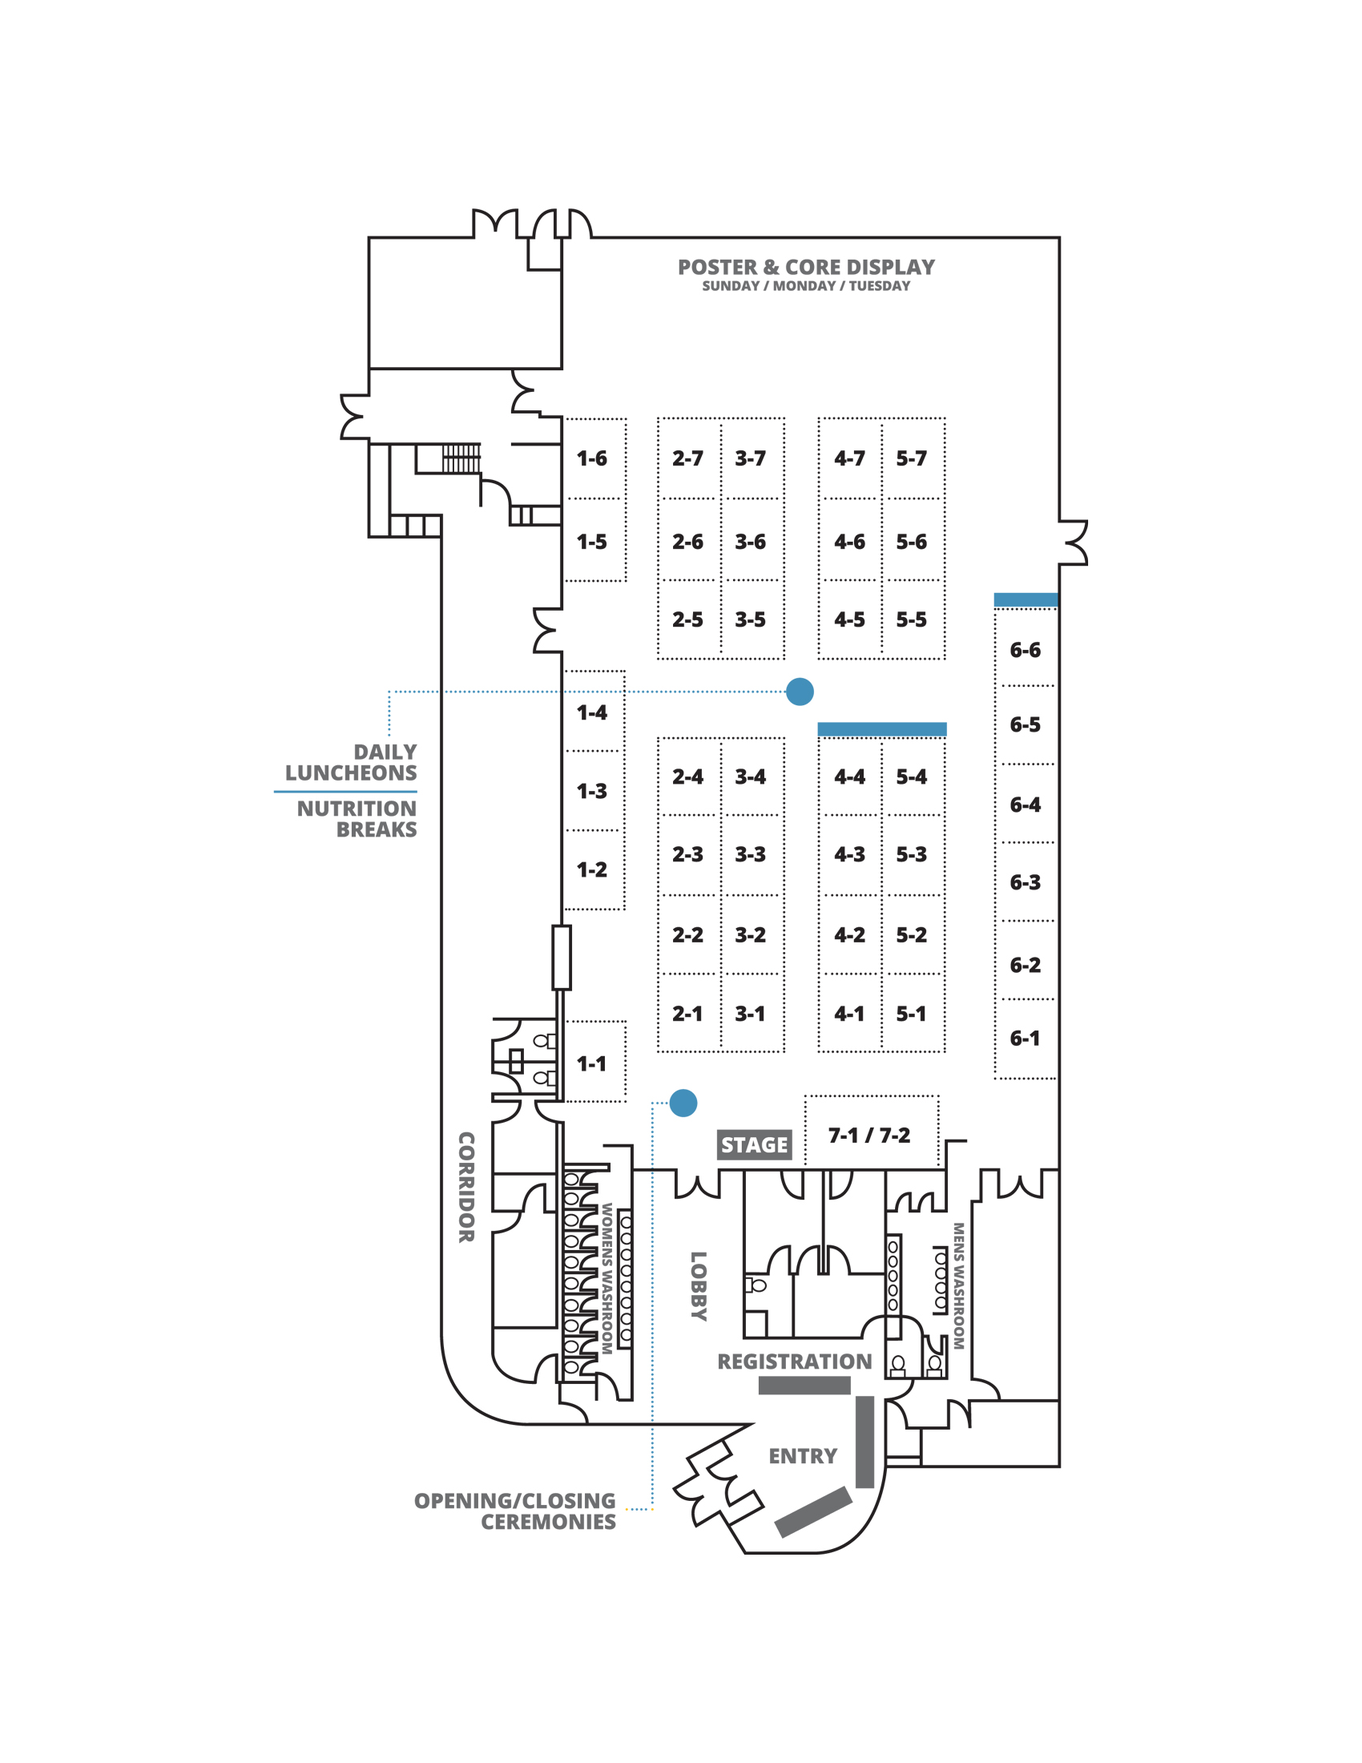
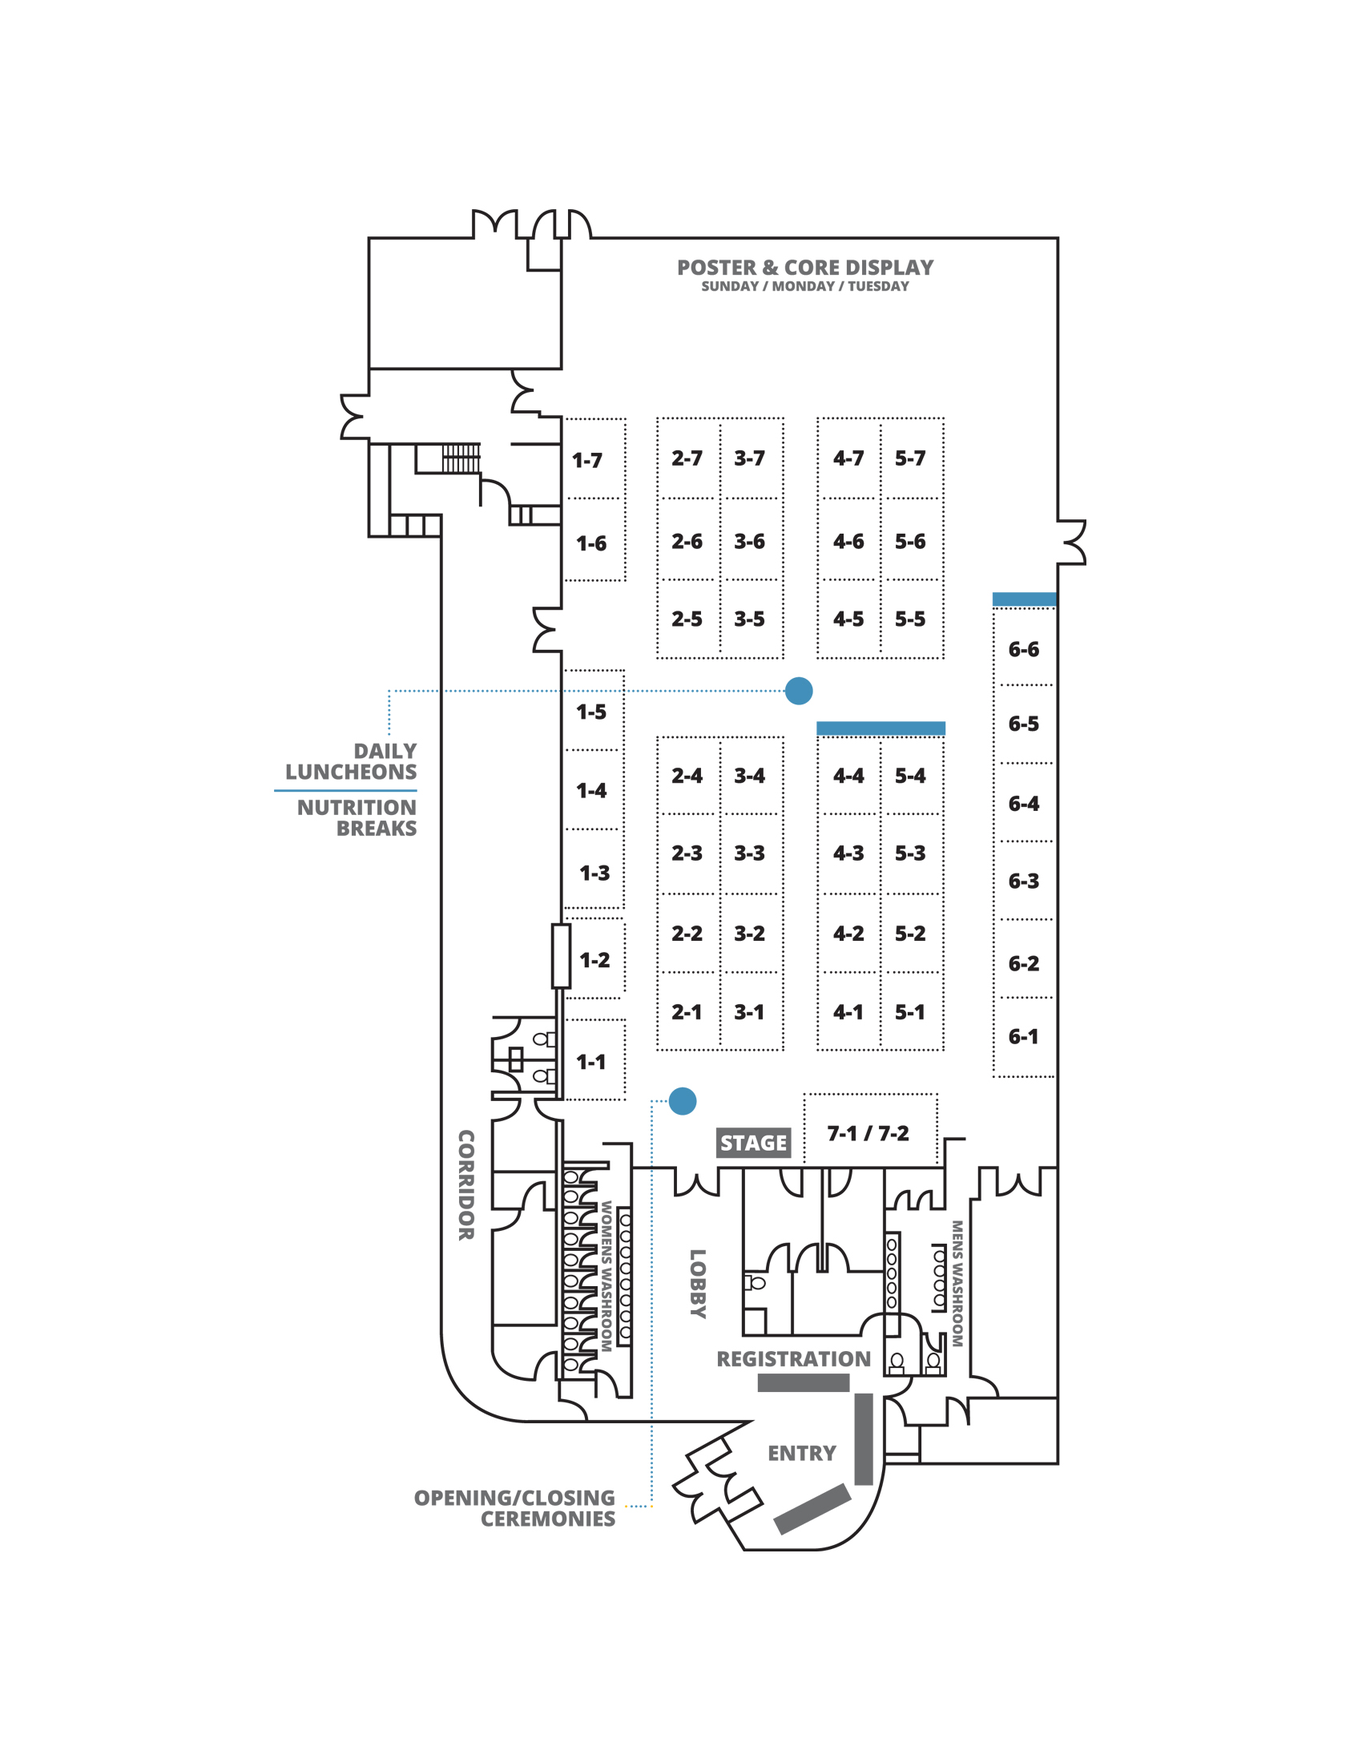
oct 9 2019

diff --git a/src/pages/list/list.ts b/src/pages/list/list.ts
@@ -22,48 +22,50 @@ export class ListPage {
   
   initializeItems() {
     this.items = [
-	[{"s": "Aurora Geosciences", "name": " Aurora Geosciences ", "booth": "1-1", "marker": [9.481572085088517, 7.987060546875001 ] }],
-	[{"s": "Alkan Air", "name": " Alkan Air ", "booth": "1-2", "marker": [12.071552663274506, 7.965087890625001 ] }],
-	[{"s": "Mercer Contracting","name": " Mercer Contracting ", "booth": "1-3", "marker": [12.95102921601837, 7.976074218750001 ] }],
-	[{"s": "Pelly Construction","name": " Pelly Construction ", "booth": "1-4", "marker": [13.78473654934022, 7.965087890625001 ] }],
-	[{"s": "Klondike Crane Inspections  Casino Mining Corp","name": "Klondike Crane Inspections", "booth": "1-5", "marker": [15.961329081596647, 7.976074218750001 ] }, {"name": " Casino Mining Corp", "booth": "1-5", "marker": [9, 5] }],
-	[{"s": "Imdex Limited","name": "Imdex Limited ", "booth": "1-6", "marker": [16.90968361555865, 7.954101562500001 ] }],
-	[{"s": "Selwyn Chihong Mining","name": "Selwyn Chihong Mining ", "booth": "2-1", "marker": [10.260870794748941, 9.107666015625002 ] }],
-	[{"s": "Air North","name": "Air North ", "booth": "2-2", "marker": [11.221510260010541, 9.107666015625002 ] }],
-	[{"s": "Uniglobe Challenger","name": " Uniglobe", "booth": "2-3", "marker": [12.243391505623274, 9.107666015625002 ] }, {"name": "Challenger", "booth": "2-3", "marker": [9, 5] }],
-	[{"s": "GOLDCORP","name": "GOLDCORP", "booth": "2-4", "marker": [13.15437605541853, 9.129638671875002 ] }],
-	[{"s": "Yukon Women in Mining WIM Nickle Creek Platinum","name": "Yukon Women in Mining", "booth": "2-5", "marker": [14.944784875088372, 9.074707031250002 ] }, {"name": "Nickle Creek Platinum", "booth": "2-5", "marker": [9, 5] }],
-	[{"s": "Great Slave Helicopters MIHR","name": "Great Slave Helicopters", "booth": "2-6", "marker": [15.940202412387029, 9.140625000000002 ] }, {"name": "MIHR", "booth": "2-6", "marker": [9, 5] }],
-	[{"s": "Icefield Tools KBL Environmental","name": "Icefield Tools", "booth": "2-7", "marker": [16.825574258731486, 9.096679687500002 ] }, {"name": "KBL Environmental", "booth": "2-7", "marker": [9, 5] }],
-	[{"s": "Bureau Veritas Minerals","name": "Bureau Veritas Minerals ", "booth": "3-1", "marker": [10.401377554543553, 9.744873046875002 ] }],
-	[{"s": "New Age Drilling","name": "New Age Drilling", "booth": "3-2", "marker": [11.243062041947772, 9.788818359375002 ] }], 
-	[{"s": "Multipower Tetra Tech","name": "Multipower", "booth": "3-3", "marker": [12.221917732187263, 9.799804687500002 ] }, {"name": "Tetra Tech", "booth": "3-3", "marker": [9, 5] }],
-	[{"s": "Trans North Helicopters Alexco Resource Corp","name": "Trans North Helicopters", "booth": "3-4", "marker": [13.250639570043116, 9.854736328125002 ] }, {"name": "Alexco Resource Corp", "booth": "3-4", "marker": [9, 5] }],
-	[{"s": "Talik Industrial Services ","name": "Talik Industrial Services", "booth": "3-5", "marker": [15.019074989409148, 9.810791015625 ] }], 
-	[{"s": "Golden Predator Corp Yukon College: CNIM","name": "Golden Predator Corp", "booth": "3-6", "marker": [15.929638243169189, 9.821777343750002 ] }, {"name": "Yukon College: CNIM", "booth": "3-6", "marker": [9, 5] }],
-	[{"s": "SLR Consulting","name": "SLR Consulting", "booth": "3-7", "marker": [16.941214960202657, 9.843750000000002 ] }, {"name": "Veolia Water Solutions & Technologies", "booth": "3-7", "marker": [9, 5] }],
-    [{"s": "BMC Minerals Tintina Air","name": "BMC Minerals", "booth": "4-1", "marker": [10.31491928581316, 11.008300781250002 ] }, {"name": "Tintina Air", "booth": "4-1", "marker": [9, 5] }],
-	[{"s": "Fleming Security","name": "Fleming Security", "booth": "4-2", "marker": [11.243062041947772, 11.008300781250002 ] }],
-	[{"s": "Alaska Marine Lines","name": "Alaska Marine Lines", "booth": "4-3", "marker": [12.232654837013484, 10.986328125000002 ] }],
-	[{"s": "Small's Expediting","name": "Small's Expediting", "booth": "4-4", "marker": [13.111580118251661, 11.008300781250002 ] }],
-	[{"s": "Horizon Helicopters","name": "Horizon Helicopters", "booth": "4-5", "marker": [15.029685756555674, 10.975341796875002 ] }],
-	[{"s": "McCue Engineering Contractors Metallic Minerals Corp","name": "McCue Engineering Contractors", "booth": "4-6", "marker": [15.961329081596647, 10.986328125000002 ] }, {"name": "Metallic Minerals Corp", "booth": "4-6", "marker": [9, 5] }],
-	[{"s": "ALS Global","name": "ALS Global", "booth": "4-7", "marker": [16.99375545289456, 10.953369140625 ] }],
-	[{"s": "AGAT Laboratories","name": "AGAT Laboratories", "booth": "5-1", "marker": [10.304110328329449, 11.722412109375002 ] }],
-	[{"s": "Northspan Golder Associates","name": "Northspan", "booth": "5-2", "marker": [11.296934440596322, 11.71142578125 ] }, {"name": "Golder Associates", "booth": "5-2", "marker": [9, 5] }],
-	[{"s": "Driving Force Ferus","name": "Driving Force", "booth": "5-3", "marker": [12.243391505623274, 11.722412109375002 ] }, {"name": "Ferus", "booth": "5-3", "marker": [9, 5] }],
-	[{"s": "Ecofor Associated Engineering","name": "Ecofor", "booth": "5-4", "marker": [13.14367777049247, 11.755371093750002 ] }, {"name": "Associated Engineering", "booth": "5-4", "marker": [9, 5] }],
-	[{"s": "SGS","name": "SGS", "booth": "5-5", "marker": [15.050905707724786, 11.700439453125 ] }],
-	[{"s": "Summit Camps","name": "Summit Camps", "booth": "5-6", "marker": [15.971891580928983, 11.744384765625002 ] }],
-	[{"s": "Equity Exploration BluMetric Enviromental","name": "Equity Exploration", "booth": "5-7", "marker": [16.93070509876554, 11.744384765625002 ] }, {"name": "BluMetric Enviromental", "booth": "5-7", "marker": [9, 5] }],
-	[{"s": "Midnight Sun Drilling ALX Exploration Services","name": "Midnight Sun Drilling", "booth": "6-1", "marker": [10.001310360636941, 13.084716796875 ] }, {"name": "ALX Exploration Services", "booth": "6-1", "marker": [9, 5] }],
-	[{"s": "Yukon Government YG","name": "Yukon Government", "booth": "6-2", "marker": [10.941191793456534, 13.106689453125002 ] }, {"name": "Yukon Government", "booth": "6-2", "marker": [9, 5] }],
-	[{"s": "Yukon Government YG Yukon Surface Rights Board YSRB","name": "Yukon Government", "booth": "6-3", "marker": [11.910353555774114, 13.062744140625002 ] }, {"name": "Yukon Surface Rights Board", "booth": "6-3", "marker": [9, 5] }],
-	[{"s": "Boart Longyear EDI Enviromental","name": "Boart Longyear", "booth": "6-4", "marker": [12.822513897983297, 13.084716796875 ] }, {"name": "EDI Enviromental", "booth": "6-4", "marker": [9, 5] }],
-	[{"s": "Total North Communications Raven Rescue","name": "Total North Communications", "booth": "6-5", "marker": [13.848747147537152, 13.040771484375002 ] }, {"name": "Raven Rescue", "booth": "6-5", "marker": [9, 5] }],
-	[{"s": "Doosan/Bobcat/Macpherson","name": "Doosan/Bobcat/Macpherson", "booth": "6-6", "marker": [14.689881366618774, 13.095703125 ] }],
-	[{"s": "Yukon Chamber of Mines YCM","name": "Yukon Chamber of Mines", "booth": "7-1", "marker": [8.63649559861, 11.31411132812] }],
-	[{"s": "First Nations Chamber of Commerce FNCC","name": "First Nations Chamber of Commerce", "booth": "7-2", "marker": [8.63649559861, 11.31411132812] }]];
+[{"s": "Aurora Geosciences", "name": " Aurora Geosciences ", "booth": "1-1", "marker": [9.579084335882534,7.910156250000001 ] }],
+[{"s": "Summit Camps", "name": " Summit Camps ", "booth": "1-2", "marker": [10.833305983642491,7.954101562500001 ] }],
+[{"s": "Alkan Air", "name": " Alkan Air ", "booth": "1-3", "marker": [11.824341483849048,7.998046875000001 ] }],
+[{"s": "Mercer Contracting", "name": " Mercer Contracting ", "booth": "1-4", "marker": [12.768946439455956,7.954101562500001 ] }],
+[{"s": "Pelly Construction", "name": " Pelly Construction ", "booth": "1-5", "marker": [13.752724664396988,7.998046875000001 ] }],
+[{"s": "Klondike Crane Inspections Casino Mining Corp","name": "Klondike Crane Inspections", "booth": "1-6", "marker": [15.792253570362446,8.041992187500002 ] }, {"name": " Casino Mining Corp", "booth": "1-6", "marker": [9, 5] }],
+[{"s": "McCue Engineering", "name": " McCue Engineering ", "booth": "1-7", "marker": [16.636191878397664,7.954101562500001 ] }],
+[{"s": "Selwyn Chihong Mining", "name": " Selwyn Chihong Mining ", "booth": "2-1", "marker": [10.31491928581316,9.096679687500002] }],
+[{"s": "Air North", "name": " Air North ", "booth": "2-2", "marker": [11.30770770776545,9.096679687500002] }],
+[{"s": "Equity Exploration Challenger","name": "Equity Exploration", "booth": "2-3", "marker": [12.211180191503997,9.096679687500002] }, {"name": " Challenger ", "booth": "2-3", "marker": [9, 5] }],
+[{"s": "Dawson Regional Planning Commission", "name": " Dawson Regional Planning Commission ", "booth": "2-4", "marker": [13.111580118251661,9.096679687500002] }],
+[{"s": "Yukon Women in Mining Tetra Tech","name": " Yukon Women in Mining ", "booth": "2-5", "marker": [14.987239525774259,9.096679687500002] }, {"name": " Tetra Tech ", "booth": "2-5", "marker": [9, 5] }],
+[{"s": "Merit Consultants", "name": " Merit Consultants ", "booth": "2-6", "marker": [15.961329081596647,9.096679687500002] }],
+[{"s": "Raven Rescue Golder Associates","name": " Raven Rescue ", "booth": "2-7", "marker": [16.88865978738161,9.096679687500002] }, {"name": " Golder Associates ", "booth": "2-7", "marker": [9, 5] }],
+[{"s": "Bureau Veritas", "name": " Bureau Veritas ", "booth": "3-1", "marker": [10.31491928581316,9.799804687500002] }],
+[{"s": "New Age Drilling", "name": " New Age Drilling ", "booth": "3-2", "marker": [11.26461221250444,9.799804687500002] }],
+[{"s": "Multipower KBL Environmental","name": " Multipower  ", "booth": "3-3", "marker": [12.168225677390119,9.799804687500002] }, {"name": " KBL Environmental ", "booth": "3-3", "marker": [9, 5] }],
+[{"s": "Trans North Helicopters	Alexco","name": " Trans North Helicopters  ", "booth": "3-4", "marker": [13.068776734357694,9.843750000000002] }, {"name": " Alexco ", "booth": "3-4", "marker": [9, 5] }],
+[{"s": "Extreme Products Talik Industrial Services", "name": " Extreme Products/Talik Industrial Services ", "booth": "3-5", "marker": [14.987239525774259,9.843750000000002] }],
+[{"s": "Strata Geo Data	Yukon College: CNIM","name": " Strata Geo Data ", "booth": "3-6", "marker": [15.919073517982426,9.843750000000002] }, {"name": " Yukon College: CNIM ", "booth": "3-6", "marker": [9, 5] }],
+[{"s": "SLR Consulting Hardrock Diamond Drilling","name": " SLR Consulting ", "booth": "3-7", "marker": [16.846605106396304,9.843750000000002] }, {"name": " Hardrock Diamond Drilling ", "booth": "3-7", "marker": [9, 5] }],
+[{"s": "BMC Minerals Tintina air","name": " BMC Minerals ", "booth": "4-1", "marker": [10.31491928581316,10.986328125000002] }, {"name": " Tintina air ", "booth": "4-1", "marker": [9, 5] }],
+[{"s": "Fleming Security", "name": " Fleming Security ", "booth": "4-2", "marker": [11.221510260010541,10.986328125000002] }],
+[{"s": "Alaska Marine Lines", "name": " Alaska Marine Lines ", "booth": "4-3", "marker": [12.211180191503997,10.986328125000002] }],
+[{"s": "Small's Expediting", "name": " Small's Expediting ", "booth": "4-4", "marker": [13.197164523281993,10.986328125000002] }],
+[{"s": "Horizon Helicopters", "name": " Horizon Helicopters ", "booth": "4-5", "marker": [14.987239525774259,10.986328125000002] }],
+[{"s": "NexGen Metallic Minerals Corp","name": " NexGen ", "booth": "4-6", "marker": [15.961329081596647,10.986328125000002] }, {"name": " Metallic Minerals Corp ", "booth": "4-6", "marker": [9, 5] }],
+[{"s": "ALS Global", "name": " ALS Global ", "booth": "4-7", "marker": [16.88865978738161,10.986328125000002] }],
+[{"s": "AGAT Laboratories", "name": " AGAT Laboratories ", "booth": "5-1", "marker": [10.31491928581316,11.689453125000002] }],
+[{"s": "Northspan Solvest","name": " Northspan ", "booth": "5-2", "marker": [11.26461221250444,11.689453125000002] }, {"name": " Solvest ", "booth": "5-2", "marker": [9, 5] }],
+[{"s": "Driving Force Ferus","name": " Driving Force ", "booth": "5-3", "marker": [12.254127737657381,11.689453125000002] }, {"name": " Ferus ", "booth": "5-3", "marker": [9, 5] }],
+[{"s": "Ecofor Associated Engineering","name": " Ecofor ", "booth": "5-4", "marker": [13.15437605541853,11.733398437500002] }, {"name": " Associated Engineering ", "booth": "5-4", "marker": [9, 5] }],
+[{"s": "SGS", "name": " SGS ", "booth": "5-5", "marker": [15.029685756555674,11.689453125000002] }],
+[{"s": "SHERP", "name": " SHERP ", "booth": "5-6", "marker": [16.003575733881327,11.689453125000002] }],
+[{"s": "Canyon Equipment BluMetric Enviromental","name": " Canyon Equipment ", "booth": "5-7", "marker": [16.88865978738161,11.689453125000002] }, {"name": " BluMetric Enviromental ", "booth": "5-7", "marker": [9, 5] }],
+[{"s": "Midnight Sun Drilling ALX Exploration Services","name": " Midnight Sun Drilling ", "booth": "6-1", "marker": [10.098670120603392,13.051757812500002] }, {"name": " ALX Exploration Services ", "booth": "6-1", "marker": [9, 5] }],
+[{"s": "Yukon Government", "name": " Yukon Government ", "booth": "6-2", "marker": [10.962764256386821,13.051757812500002] }],
+[{"s": "Yukon Government Yukon Surface Rights Board","name": " Yukon Government ", "booth": "6-3", "marker": [11.910353555774114,13.051757812500002] }, {"name": " Yukon Surface Rights Board ", "booth": "6-3", "marker": [9, 5] }],
+[{"s": "REFLEX Hemmera","name": " REFLEX ", "booth": "6-4", "marker": [12.85464890558895,13.051757812500002] }, {"name": " Hemmera ", "booth": "6-4", "marker": [9, 5] }],
+[{"s": "Total North Communications Icefield Tools","name": " Total North Communications ", "booth": "6-5", "marker": [13.752724664396988,13.051757812500002] }, {"name": " Icefield Tools ", "booth": "6-5", "marker": [9, 5] }],
+[{"s": "Doosan Bobcat Macpherson", "name": " Doosan/Bobcat/Macpherson ", "booth": "6-6", "marker": [14.732386081418454,13.0078125] }],
+[{"s": "Yukon Chamber of Mines", "name": " Yukon Chamber of Mines ", "booth": "7-1", "marker": [8.754794702435618,10.898437500000002] }],
+[{"s": "Yukon First Nations Chamber of Commerce", "name": " Yukon First Nations Chamber of Commerce ", "booth": "7-2", "marker": [8.798225459016358,11.5576171875] }]
+	];
 }
   
   

diff --git a/src/pages/faq/faq.ts b/src/pages/faq/faq.ts
@@ -18,15 +18,15 @@ export class FaqPage {
 
 	
     this.items = [
-	{"q": "What are the dates of this year’s Geoscience Forum and Trade Show?","a":"Saturday November 17th – Tuesday November 20th" },
-	{"q": "When will registration open?","a":"Online registration will be available until Thursday November 15th, at 4pm. On site registration will be available at the Yukon Convention Centre from Friday, November 16th at 2pm - Until Tuesday November 20th from 8am-12pm." },
+	{"q": "What are the dates of this year’s Geoscience Forum and Trade Show?","a":"Saturday November 16th – Tuesday November 19th" },
+	{"q": "When will registration open?","a":"Online registration will be available until Thursday November 14th, at 4pm. On site registration will be available at the Yukon Convention Centre from Friday, November 15th at 2pm - Until Tuesday November 19th from 8am-12pm." },
 	{"q": "How do delegates register?","a":"All registration will be available online at www.yukongeoscience.ca, or after Friday November 16th, onsite at the Yukon Convention Centre." },
-	{"q": "Is there Wifi available during the 2018 Geoscience Forum & Trade Show? ","a":"Yes, for the Forum the Network is Geoscience Delegates and the Password is: \n\n Geoscience2018 \n \n For the Trade Show the Network is Geoscience Trade Show and the Password is: \n\n Tradeshow2018" },
+	{"q": "Is there Wifi available during the 2019 Geoscience Forum & Trade Show? ","a":"Yes, for the Forum the Network is Geoscience Delegates and the Password is: \n\n Geoscience2018 \n \n For the Trade Show the Network is Geoscience Trade Show and the Password is: \n\n Tradeshow2019" },
 	{"q": "Will on-site registration be available?","a":"Yes, it will be available all days of the conference at the Trade Show located in the Yukon Convention Center. An administration fee may apply. Register early online to avoid delays or potential disappointment." },
 	{"q": "Can I renew my membership at the same time and receive the member’s Geoscience discount?","a":"Yes, in order to secure the discount rate for members on delegate registration we have made this option available online at www.yukongeoscience.ca" },
 	{"q": "When will the Geoscience agenda be available?","a":"The Geoscience Agenda is available now on www.yukongeoscience.ca or on the Agenda page of this app." },
 	{"q": "Is there a Trade Show Booth Waitlist?","a":"All Exhibitor booth spaces have been taken; however, companies interested in being on the Trade Show Booth Waitlist should contact Daniel Little at communications@yukonminers.ca ASAP." },
-	{"q": "What Sponsorship Opportunities are there?","a":"If you are interested in sponsoring the 2018 Yukon Geoscience Forum & Trade Show please contact Daniel Little at 867-667-2090 or at communications@yukonminers.ca" },
+	{"q": "What Sponsorship Opportunities are there?","a":"If you are interested in sponsoring the 2019 Yukon Geoscience Forum & Trade Show please contact Daniel Little at 867-667-2090 or at communications@yukonminers.ca" },
 	{"q": "Are there opportunities for volunteers?","a":"YCM has a number of volunteer opportunities available. Please contact us if you are interested in helping out! admin@yukonminers.ca" }
 	];
     

diff --git a/src/pages/sponsor/sponsor.ts b/src/pages/sponsor/sponsor.ts
@@ -1,6 +1,5 @@
 import { Component } from '@angular/core';
-import { NavController, NavParams, Modal, ModalController, ModalOptions } from 'ionic-angular';
-
+import { Platform, AlertController, NavController, NavParams, Modal, ModalController, ModalOptions } from 'ionic-angular';
 
 @Component({
   selector: 'page-sponsor',
@@ -11,12 +10,42 @@ export class SponsorPage {
   selectedItem: any;
   icons: string[];
   items: any;
-
-  constructor(public navCtrl: NavController, public navParams: NavParams, private modal : ModalController) {
+  private resetBackButton: any;
+  
+  
+  constructor(public navCtrl: NavController, public navParams: NavParams, private modal : ModalController,private alertCtrl: AlertController, private platform: Platform) {
     // If we navigated to this page, we will have an item available as a nav param
-
-    
   }
+  
+  
+  
+  
+  presentAlert() {
+  let alert = this.alertCtrl.create({
+    title: 'Yo Yo Yo Yo',
+    subTitle: 'back button pressed!',
+    buttons: ['okay']
+  });
+  alert.present();
+}
+
+
+
+
+ ionViewDidEnter() {
+    if (this.resetBackButton) {
+      this.resetBackButton();
+    }
+    this.resetBackButton = this.platform.registerBackButtonAction(null);
+  }
+
+  ionViewWillLeave() {
+    if (this.resetBackButton) {
+      this.resetBackButton();
+      this.resetBackButton = null;
+    }
+  }
+  
   
   
 }

diff --git a/src/pages/faq/faq.html b/src/pages/faq/faq.html
@@ -14,18 +14,9 @@
   </ion-card-header>
 </ion-card>
 
-<ion-card>
-  <ion-card-header>
-    
-    <ion-card-title text-wrap>2019 FAQ coming soon!</ion-card-title>
-  </ion-card-header>
 
-  <ion-card-content text-wrap>
-    stay tuned for the updated app coming November 2019
-  </ion-card-content>
-</ion-card>
 
-<!--
+
 
 <ion-list  style="background-color: transparent;"> 
    <button ion-item icon-end  text-wrap *ngFor="let item of items" (click)="itemTapped(item)" >
@@ -35,7 +26,7 @@
     <h2>{{item.q}}</h2>
   </button>
 </ion-list>
--->
+
 </ion-content>
 
 

diff --git a/src/pages/map/map.ts b/src/pages/map/map.ts
@@ -35,6 +35,11 @@ export class MapPage {
     imageBounds = [[1, 1], [22, 17]];
 L.imageOverlay(imageUrl, imageBounds).addTo(this.map);
 	
+ this.map.on('click', function(e){
+    var marker = new L.marker(e.latlng).addTo(this);
+console.log(e.latlng.lat + ',' + e.latlng.lng );
+});
+
 
 
 

diff --git a/src/pages/sponsor/sponsor.html b/src/pages/sponsor/sponsor.html
@@ -22,7 +22,10 @@
 
 	</div>
 
-
+    <button ion-button large full  round  (click)="presentAlert()"> 
+   TEST BUTTIN
+    </button>
+	
 </ion-content>
 
 
